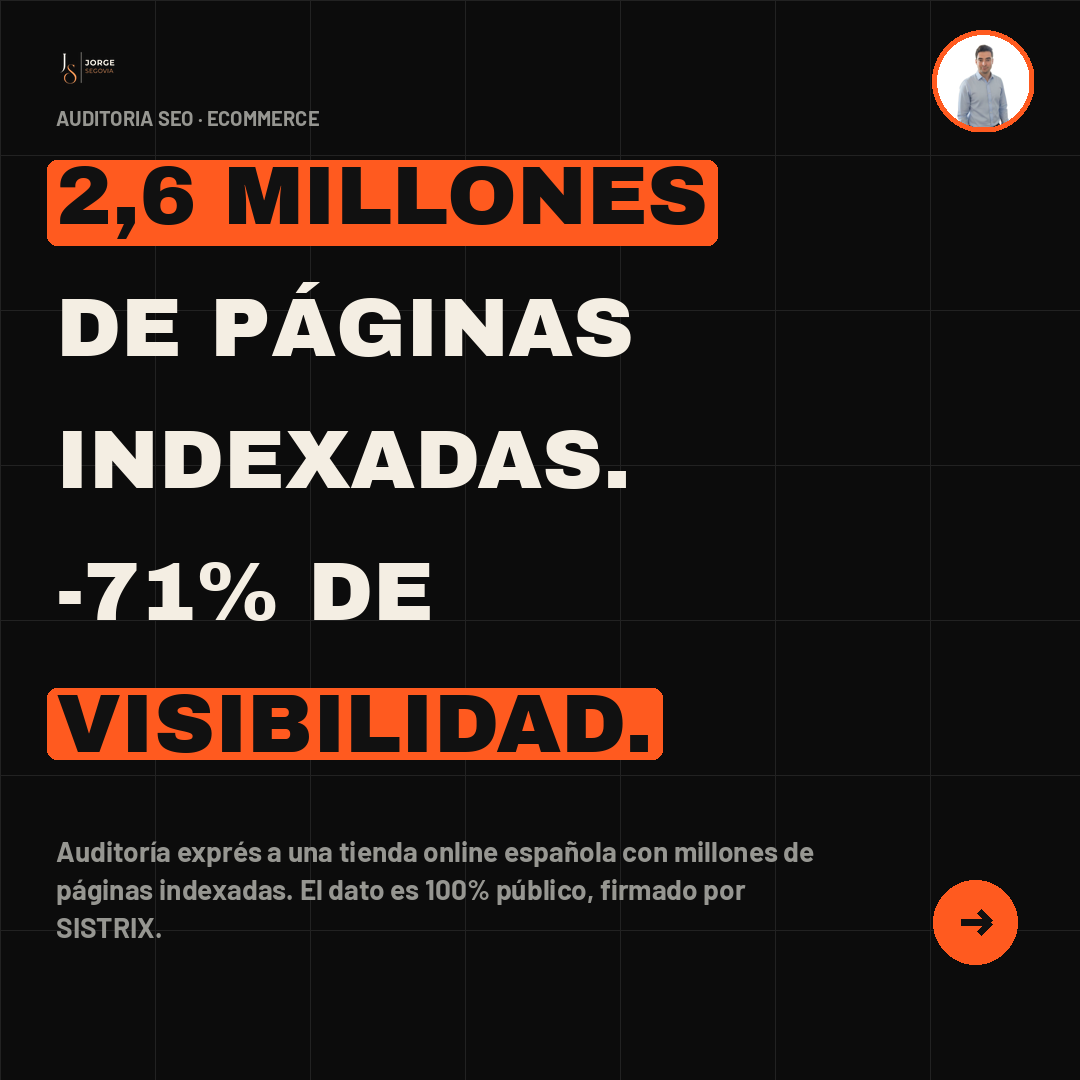
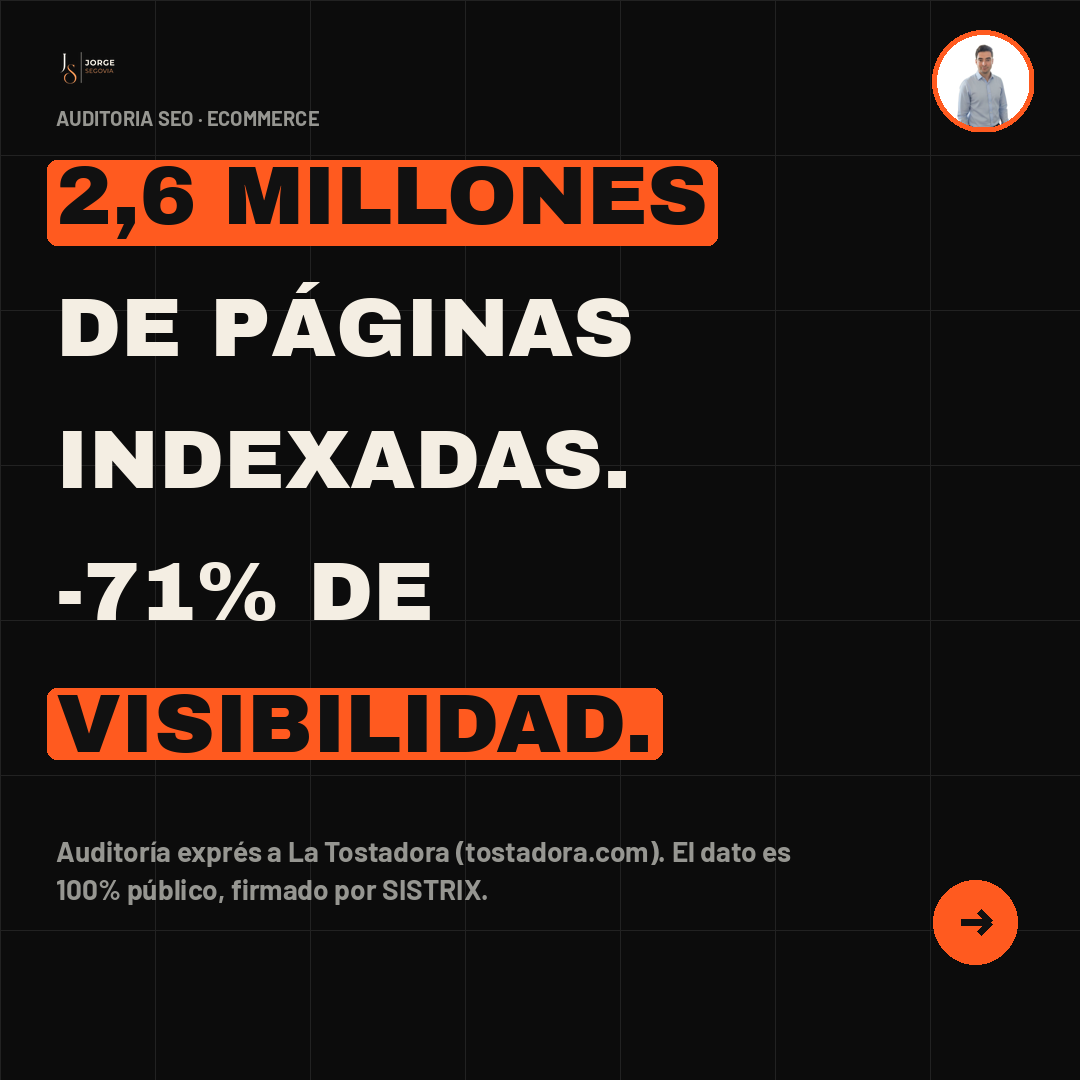
Nombra explícitamente a La Tostadora (marca pública, noticia verificable)

Changed region(s): [[0.0306, 0.7639, 0.7639, 0.8861]]

diff --git a/content/2026-08-26-miercoles-auditoria/articulo-blog.html b/content/2026-08-26-miercoles-auditoria/articulo-blog.html
@@ -6,11 +6,11 @@
      con el PDF del día — no toques esa parte.
      ============================================================ -->
 
-<h1>Cómo una tienda online española perdió el 71% de su visibilidad SEO en un año (y el patrón que lo explica)</h1>
+<h1>Cómo La Tostadora perdió el 71% de su visibilidad SEO en un año (y el patrón que lo explica)</h1>
 
-<p>Hay una tienda online española de camisetas y regalos personalizados —con años de recorrido, catálogo enorme y millones de páginas indexadas— que llevaba tiempo funcionando "a pesar de" su propia estructura. Hasta que, durante 2025, dejó de funcionar.</p>
+<p><strong>La Tostadora</strong> (tostadora.com), la tienda española de camisetas y regalos personalizados con años de recorrido, catálogo enorme y millones de páginas indexadas, llevaba tiempo funcionando "a pesar de" su propia estructura. Hasta que, durante 2025, dejó de funcionar.</p>
 
-<p>Lo cuenta SISTRIX, la herramienta de analítica SEO, en su análisis público anual de perdedores del año (IndexWatch): esta tienda, con 2,6 millones de páginas de aterrizaje indexadas, cerró el año con un <strong>-71,3% de visibilidad</strong>. No es un rumor ni una suposición — es un dato publicado, con el nombre del dominio incluido, para cualquiera que quiera comprobarlo.</p>
+<p>Lo cuenta <a href="https://www.sistrix.es/blog/indexwatch-perdedores-seo-2025/" target="_blank" rel="noopener">SISTRIX, la herramienta de analítica SEO, en su análisis público anual de perdedores del año (IndexWatch)</a>: La Tostadora, con 2,6 millones de páginas de aterrizaje indexadas, cerró el año con un <strong>-71,3% de visibilidad</strong>. No es un rumor ni una suposición — es un dato publicado, con el nombre del dominio incluido, para cualquiera que quiera comprobarlo.</p>
 
 <div style="text-align:left;margin:36px 0;">
   <a href="#jsc-lead-form" onclick="var f=document.getElementById('jsc-lead-form'); if(f){f.scrollIntoView({behavior:'smooth'});} return false;" style="display:inline-block;background:#FF5A1F;color:#ffffff;font-weight:700;font-size:15px;line-height:1.3;padding:15px 30px;border-radius:999px;text-decoration:none;box-shadow:0 4px 14px rgba(255,90,31,.35);">
@@ -22,7 +22,7 @@
 
 <p>Tener millones de páginas indexadas no es, por sí solo, un error. El problema aparece cuando una parte enorme de esas páginas se genera automáticamente combinando categoría, diseño y variante —y el resultado son páginas casi idénticas entre sí: mismo texto, misma estructura, cambia poco más que un dato.</p>
 
-<p>Durante años, eso no fue un problema visible. La tienda tenía autoridad de sobra —enlaces, marca, tiempo online— y Google se lo "perdonaba": seguía posicionando esas páginas casi duplicadas a pesar de la duplicación, porque la autoridad general del dominio compensaba la debilidad de cada página individual.</p>
+<p>Durante años, eso no fue un problema visible. La Tostadora tenía autoridad de sobra —enlaces, marca, tiempo online— y Google se lo "perdonaba": seguía posicionando esas páginas casi duplicadas a pesar de la duplicación, porque la autoridad general del dominio compensaba la debilidad de cada página individual.</p>
 
 <h2>Qué cambió a finales de 2024</h2>
 
@@ -38,7 +38,7 @@
 
 <p>Hay dos señales que puedes revisar tú mismo, sin herramientas de pago:</p>
 
-<p><strong>Duplicación entre páginas de aterrizaje:</strong> si tu catálogo genera URLs automáticamente por combinaciones de filtro, variante o diseño, entra en varias de esas páginas y compara el texto y la estructura entre ellas. Si el contenido cambia solo en una palabra o un dato, tienes el mismo patrón de fondo que esta tienda.</p>
+<p><strong>Duplicación entre páginas de aterrizaje:</strong> si tu catálogo genera URLs automáticamente por combinaciones de filtro, variante o diseño, entra en varias de esas páginas y compara el texto y la estructura entre ellas. Si el contenido cambia solo en una palabra o un dato, tienes el mismo patrón de fondo que La Tostadora.</p>
 
 <p><strong>Hreflang en una expansión internacional:</strong> si vendes en más de un país o idioma, abre el código fuente (clic derecho → "Ver código fuente", o Ctrl+U) de una página de tu versión más reciente y busca, dentro del <code>&lt;head&gt;</code>, líneas del tipo <code>&lt;link rel="alternate" hreflang="..."&gt;</code>. Si no aparece ninguna, tu expansión más nueva puede estar compitiendo contra tu propia web original en vez de sumar.</p>
 
